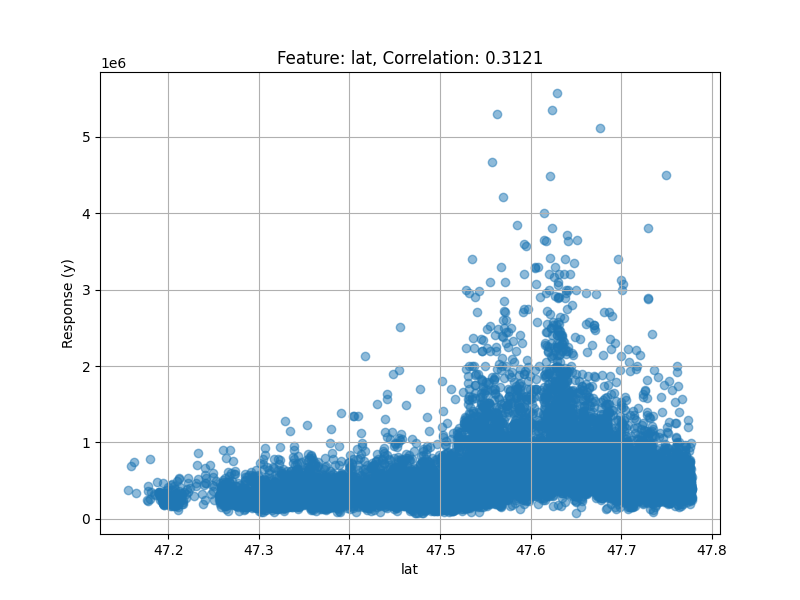
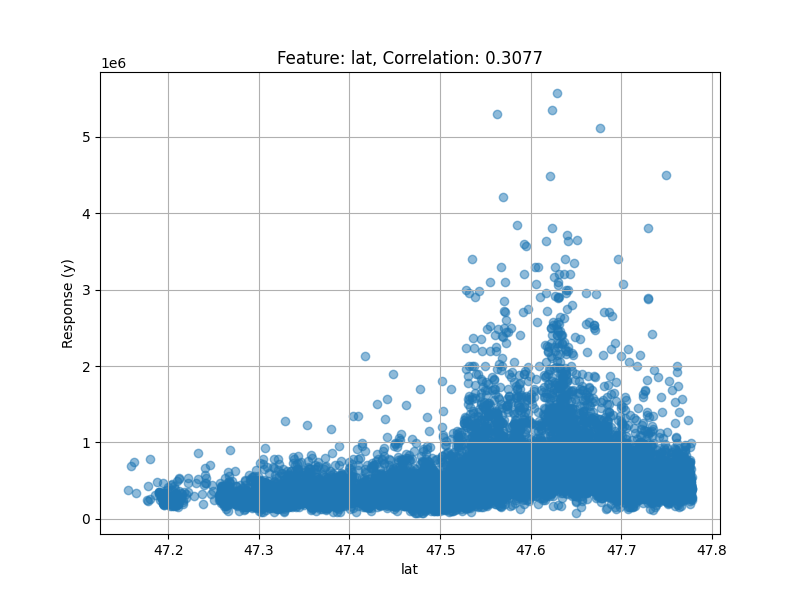
--- 2025-04-18 00:52 --- all options for columns

diff --git a/house_price_prediction.py b/house_price_prediction.py
@@ -16,6 +16,55 @@ from linear_regression import LinearRegression
 ### ========== helper functions ========== ###
 ### ====================================== ###
 
+
+price_center = {} # global variable to store the distance from the price center
+
+def update_price_center(X: pd.DataFrame, y: pd.Series) -> None:
+    """
+    Calculate the price center based on latitude and longitude (weighted average).
+    
+    Parameters
+    ----------
+    X : pd.DataFrame
+        The input DataFrame containing house features.
+    y : pd.Series
+        The target variable (house prices).
+    """
+    global price_center
+    if "lat" not in X.columns or "long" not in X.columns:
+        raise ValueError("DataFrame must contain 'lat' and 'long' columns.")
+
+    # Calculate the weighted average of latitude and longitude based on house prices
+    price_center["lat"] = np.average(X["lat"], weights=y)
+    price_center["long"] = np.average(X["long"], weights=y)
+
+    
+
+def create_l2_dist_from_price_center(X: pd.DataFrame) -> pd.DataFrame:
+    """
+    Create a new feature 'l2_dist_from_price_center' based on the L2 geographic distance (based on lat and long) from the price center.
+    
+    Parameters
+    ----------
+    X : pd.DataFrame
+        The input DataFrame containing house features.
+    
+    Returns
+    -------
+    pd.DataFrame
+        A modified DataFrame with the new 'l2_dist_from_price_center' feature.
+    """
+    if "lat" not in X.columns or "long" not in X.columns:
+        raise ValueError("DataFrame must contain 'lat' and 'long' columns.")
+
+    # Compute the L2 distance from the price center
+    X["l2_dist_from_price_center"] = np.sqrt(
+        (X["lat"] - price_center["lat"]) ** 2 + (X["long"] - price_center["long"]) ** 2)
+
+    return X
+    
+    
+
 def create_closest15_feature(X: pd.DataFrame, feature: str) -> pd.DataFrame:
     """
     Create a new feature '<feature>_closest15' based on the average of the 15 closest houses for the specified feature.
@@ -25,7 +74,7 @@ def create_closest15_feature(X: pd.DataFrame, feature: str) -> pd.DataFrame:
     X : pd.DataFrame
         The input DataFrame containing house features.
     feature : str
-        The name of the feature to calculate the closest 15 average for.
+        The name of the feature to calculate the closest 15 average for. 
     
     Returns
     -------
@@ -88,20 +137,7 @@ def remove_outliers(X_clean: pd.DataFrame, y_clean: pd.Series) -> Tuple[pd.DataF
     return X_clean, y_clean
 
 
-def remove_uncoralated_features(X_clean: pd.DataFrame) -> Tuple[pd.DataFrame, pd.Series]:
-    # remove the column 'waterfront'
-    X_clean = X_clean.drop(columns=["waterfront"], errors="ignore").copy()
-    X_clean = X_clean.drop(columns=["date"], errors="ignore").copy()
 
-    X_clean = X_clean.drop(columns=["condition"], errors="ignore").copy()
-    X_clean = X_clean.drop(columns=["sqft_lot15"], errors="ignore").copy()
-    X_clean = X_clean.drop(columns=["long"], errors="ignore").copy()
-    X_clean = X_clean.drop(columns=["sqft_lot"], errors="ignore").copy()
-    X_clean = X_clean.drop(columns=["yr_built"], errors="ignore").copy()
-    X_clean = X_clean.drop(columns=["yr_renovated"], errors="ignore").copy()
-
-    # remove the column 'view'
-    return X_clean    
 
 
 
@@ -173,6 +209,8 @@ def parse_arguments() -> dict:
     parser.add_argument( "-f", "--first_part_only", action="store_true", help="Run only the first part of the assignment")
     parser.add_argument( "-nf", "--no_feature_evaluation", action="store_true", help="Disable feature evaluation")
     parser.add_argument( "-i", "--input", type=str, help="Path to input CSV file (required in debug mode)")
+    
+    parser.add_argument( "-t", "--title", type=str, help="Title of the avarge loss plot (optional)")
 
     args = parser.parse_args()
 
@@ -187,7 +225,9 @@ def parse_arguments() -> dict:
         "feature_evaluation": features_evaluation,
         "zipcode": args.zipcode,
         "first_part_only": args.first_part_only,
-        "first_part": not args.without_first_part
+        "first_part": not args.without_first_part,
+        "title": args.title
+
 
     }
 
@@ -245,6 +285,32 @@ def avarge_house_prices(X_clean: pd.DataFrame, y_clean: pd.Series) -> Tuple[pd.D
 
 
     return X_clean, y_clean
+
+def convert_date_to_months(X_clean: pd.DataFrame) -> pd.DataFrame:
+    """
+    Convert the 'date' column in the DataFrame to a new feature representing months since the first sale.
+
+    Parameters
+    ----------
+    X_clean : pd.DataFrame
+        The input DataFrame containing a 'date' column.
+
+    Returns
+    -------
+    pd.DataFrame
+        A modified DataFrame with a new 'months_since_first_sale' column and the original 'date' column removed.
+    """
+    X_clean["date"] = pd.to_datetime(X_clean["date"], format="%Y%m%dT%H%M%S", errors="coerce")
+
+    X_clean["date"] = (
+        ((X_clean["date"] - X_clean["date"].min()) / np.timedelta64(1, 'm'))
+    )
+
+    # Fill NaNs with the median
+    median_months = X_clean["date"].median()
+    X_clean["date"] = X_clean["date"].fillna(median_months).astype(int)
+
+    return X_clean
 
 
 def remove_small_living_area(X_clean: pd.DataFrame, y_clean: pd.Series) -> Tuple[pd.DataFrame, pd.Series]:
@@ -341,9 +407,12 @@ def preprocess_train(X: pd.DataFrame, y: pd.Series) -> Tuple[pd.DataFrame, pd.Se
     
     # Convert the 'date' column to a new feature representing months since the first sale -- need to be done in preprocess test also --
     
+    update_price_center(X_clean, y_clean)
+    X_clean = create_l2_dist_from_price_center(X_clean)
 
     # Set yr_renovated to 0 for houses where yr_built is later than yr_renovated
     X_clean.loc[X_clean["yr_built"] > X_clean["yr_renovated"], "yr_renovated"] = 0
+    X_clean = convert_date_to_months(X_clean)
     
 
     
@@ -356,8 +425,7 @@ def preprocess_train(X: pd.DataFrame, y: pd.Series) -> Tuple[pd.DataFrame, pd.Se
 
     X_clean = create_closest15_feature(X_clean, "grade")
     X_clean = create_closest15_feature(X_clean, "view")
-
-    X_clean = remove_uncoralated_features(X_clean)
+    
     
     #check if date in the data
 
@@ -401,11 +469,11 @@ def preprocess_test(X: pd.DataFrame):
 
     # Set yr_renovated to 0 for houses where yr_built is later than yr_renovated
     X_test.loc[X_test["yr_built"] > X_test["yr_renovated"], "yr_renovated"] = 0
-
+    X_test = convert_date_to_months(X_test)
     X_test = create_closest15_feature(X_test, "grade")
     X_test = create_closest15_feature(X_test, "view")
+    X_test = create_l2_dist_from_price_center(X_test)
 
-    X_test = remove_uncoralated_features(X_test)
 
     X_test.sort_index(inplace=True)
     return X_test
@@ -727,17 +795,24 @@ def main() -> NoReturn:
         name='Error Ribbon (±2*std)'
     ))
 
+    title = "Average Loss" if not args["title"] else args["title"]
     # Update layout
     fig.update_layout(
-        title="Average Loss as a Function of Training Size",
+        title=title + " as a Function of Training Size",
         xaxis_title="Percentage of Training Data",
         yaxis_title="Loss (Squared Error)",  # Add units to the y-axis
         legend=dict(x=0, y=1),
-        template="plotly_white"
+        template="plotly_white",
+        yaxis=dict(
+            type="log",  # Use logarithmic scale
+            title="Loss (e^scale)",  # Update y-axis title
+            exponentformat="e"  # Format exponents as e^x
+        )
     )
 
     # Save the plot as an image
-    fig.write_image("average_loss_plot.png")
+    
+    fig.write_image(title + ".png")
 
     # Show the plot
     fig.show()
